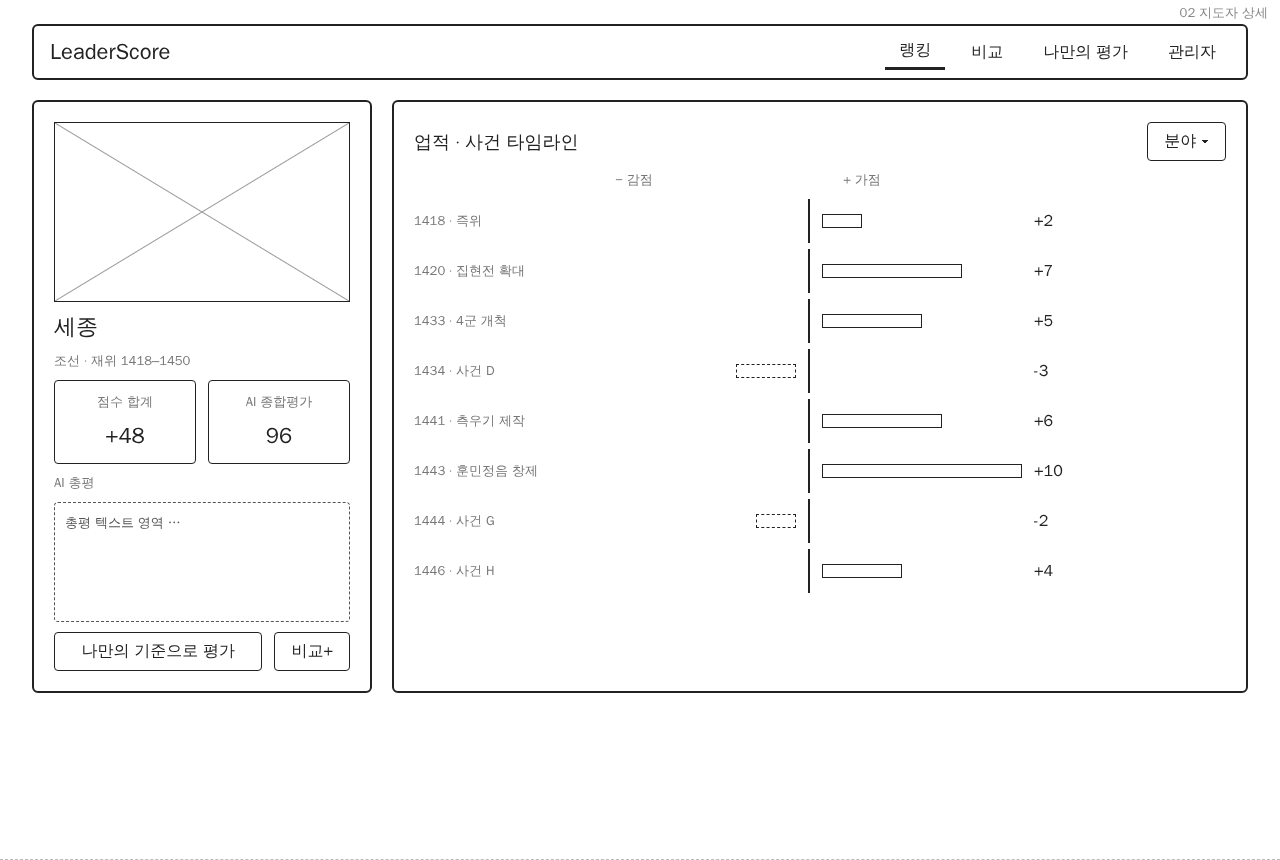
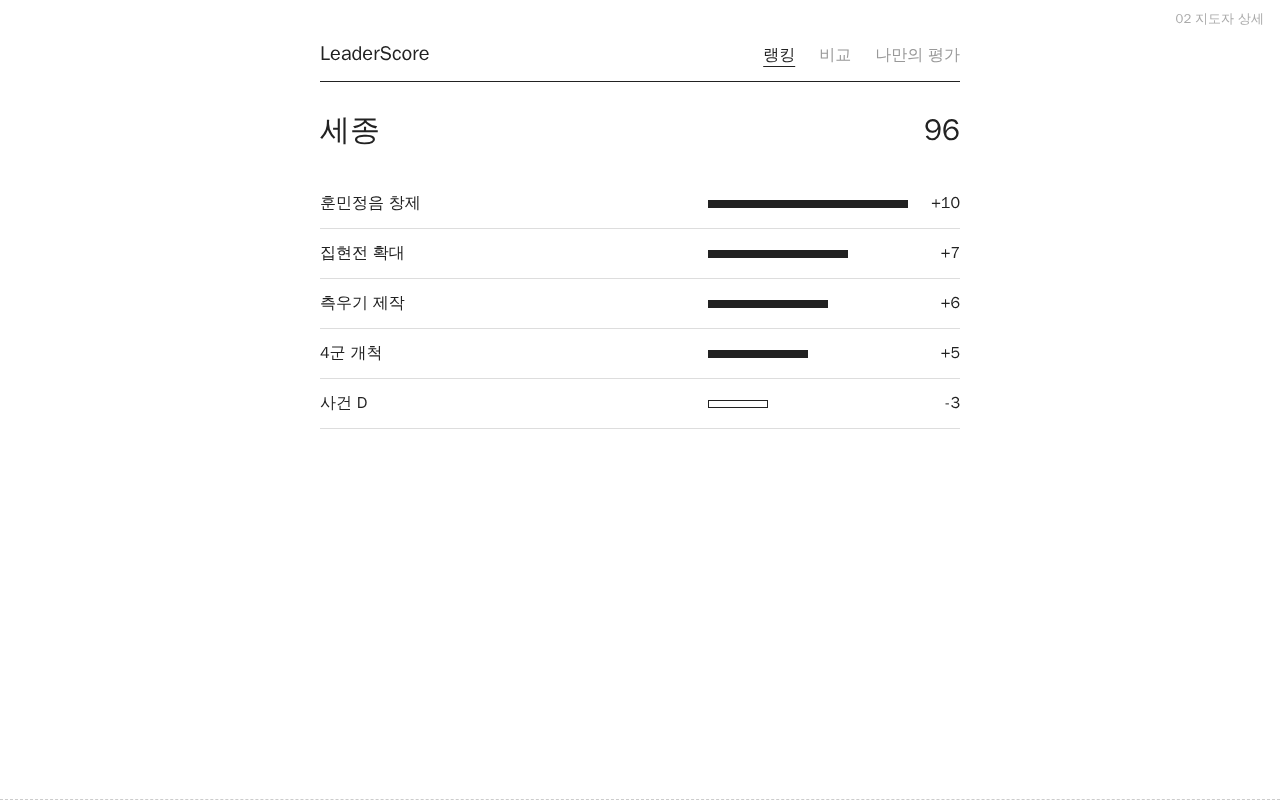
Simplify wireframes to minimal layout
Claude-Session: https://claude.ai/code/session_018d411kTBLTazJuieQGaakd

diff --git a/mockups/wireframes.html b/mockups/wireframes.html
@@ -6,200 +6,81 @@
 <style>
   * { box-sizing: border-box; margin: 0; padding: 0; }
   body { background: #fff; font-family: "WenQuanYi Zen Hei", sans-serif; color: #222; }
-  .screen { width: 1280px; height: 860px; padding: 24px 32px; position: relative; border-bottom: 1px dashed #bbb; }
-  .b { border: 2px solid #222; border-radius: 6px; }
-  .t { border: 1.5px solid #222; border-radius: 4px; }
-  .d { border: 1.5px dashed #555; border-radius: 4px; }
-  .row { display: flex; gap: 12px; align-items: center; }
-  .col { display: flex; flex-direction: column; gap: 10px; }
+  .screen { width: 1280px; height: 800px; padding: 40px 0; position: relative; border-bottom: 1px dashed #ccc; }
+  .wrap { width: 640px; margin: 0 auto; display: flex; flex-direction: column; gap: 28px; }
+  .label { position: absolute; top: 10px; right: 16px; font-size: 13px; color: #aaa; }
+  .nav { display: flex; gap: 24px; align-items: baseline; padding-bottom: 14px; border-bottom: 1.5px solid #222; }
+  .nav b { font-weight: normal; font-size: 20px; flex: 1; }
+  .nav span { color: #999; }
+  .nav span.on { color: #222; text-decoration: underline; text-underline-offset: 6px; }
+  h1 { font-weight: normal; font-size: 30px; }
+  .muted { color: #999; font-size: 14px; }
+  .line { border: 1.5px solid #222; border-radius: 6px; padding: 12px 14px; color: #999; }
+  .btn { border: 1.5px solid #222; border-radius: 6px; padding: 12px; text-align: center; }
+  .row { display: flex; align-items: center; gap: 16px; }
+  .list > div { display: flex; align-items: center; gap: 16px; padding: 14px 0; border-bottom: 1px solid #ddd; }
   .sp { flex: 1; }
-  .label { position: absolute; top: 4px; right: 12px; font-size: 13px; color: #888; }
-  h1 { font-size: 22px; font-weight: normal; }
-  h2 { font-size: 18px; font-weight: normal; }
-  .muted { color: #777; font-size: 13px; }
-  .nav { height: 56px; padding: 0 16px; margin-bottom: 20px; }
-  .nav .tab { padding: 6px 14px; }
-  .nav .tab.on { border-bottom: 3px solid #222; }
-  .btn { padding: 8px 16px; display: inline-block; }
-  .chip { padding: 6px 12px; border-radius: 20px; border: 1.5px solid #222; display: inline-flex; gap: 6px; align-items: center; }
-  .chip.on { border-width: 3px; }
-  .img { border: 1.5px solid #222; position: relative; }
-  .img::before, .img::after { content: ""; position: absolute; inset: 0;
-    background: linear-gradient(to top right, transparent calc(50% - 1px), #999 50%, transparent calc(50% + 1px)); }
-  .img::after { background: linear-gradient(to top left, transparent calc(50% - 1px), #999 50%, transparent calc(50% + 1px)); }
-  .bar { height: 14px; border: 1.5px solid #222; }
-  .axis { width: 0; border-left: 2px solid #222; align-self: stretch; }
-  table { border-collapse: collapse; width: 100%; }
-  td, th { border-bottom: 1.5px solid #222; padding: 10px 8px; text-align: left; font-weight: normal; font-size: 15px; }
-  th { border-bottom-width: 2px; color: #555; }
-  .ta { padding: 10px; font-size: 13px; color: #555; line-height: 1.6; }
+  .chip { border: 1.5px solid #222; border-radius: 20px; padding: 6px 14px; }
+  .chip.off { border-color: #ccc; color: #aaa; }
 </style>
 </head>
 <body>
 
-<!-- 공통 네비 -->
 <template id="nav">
-  <div class="b row nav">
-    <h1>LeaderScore</h1><div class="sp"></div>
-    <span class="tab" data-k="rank">랭킹</span>
-    <span class="tab" data-k="compare">비교</span>
-    <span class="tab" data-k="mine">나만의 평가</span>
-    <span class="tab" data-k="admin">관리자</span>
-  </div>
+  <div class="nav"><b>LeaderScore</b><span data-k="rank">랭킹</span><span data-k="compare">비교</span><span data-k="mine">나만의 평가</span></div>
 </template>
 
 <!-- 1. 랭킹 -->
-<section class="screen" id="s1" data-nav="rank">
-  <span class="label">01 랭킹 (메인)</span>
-  <div class="row" style="margin-bottom:16px">
-    <div class="t btn" style="width:320px">🔍 지도자 검색</div>
-    <div class="t btn">시대 ▾</div>
-    <div class="t btn">국가 ▾</div>
-    <div class="sp"></div>
-    <span class="muted">정렬</span>
-    <div class="t btn" style="border-width:3px">AI 종합평가</div>
-    <div class="t btn">점수 합계</div>
+<section class="screen" data-nav="rank"><span class="label">01 랭킹</span>
+  <div class="wrap">
+    <div class="list">
+      <div><span class="muted">1</span><span class="sp">세종</span><span>96</span></div>
+      <div><span class="muted">2</span><span class="sp">지도자 B</span><span>88</span></div>
+      <div><span class="muted">3</span><span class="sp">지도자 C</span><span>79</span></div>
+      <div><span class="muted">4</span><span class="sp">지도자 D</span><span>61</span></div>
+      <div><span class="muted">5</span><span class="sp">지도자 E</span><span>34</span></div>
+    </div>
   </div>
-  <div class="b" style="padding:8px 16px">
-    <table>
-      <tr><th style="width:60px">순위</th><th style="width:70px"></th><th>지도자</th><th>국가 · 시대</th><th style="width:300px">점수 합계 (+/−)</th><th style="width:120px">AI 평가</th><th style="width:80px"></th></tr>
-      <tr><td>1</td><td><div class="img" style="width:44px;height:44px"></div></td><td>세종</td><td>조선 · 1418–1450</td><td><div class="row"><div class="bar" style="width:200px"></div>+48</div></td><td>96 / 100</td><td><span class="t btn" style="padding:4px 8px">비교+</span></td></tr>
-      <tr><td>2</td><td><div class="img" style="width:44px;height:44px"></div></td><td>지도자 B</td><td>국가 · 시대</td><td><div class="row"><div class="bar" style="width:160px"></div>+35</div></td><td>88 / 100</td><td><span class="t btn" style="padding:4px 8px">비교+</span></td></tr>
-      <tr><td>3</td><td><div class="img" style="width:44px;height:44px"></div></td><td>지도자 C</td><td>국가 · 시대</td><td><div class="row"><div class="bar" style="width:120px"></div>+22</div></td><td>79 / 100</td><td><span class="t btn" style="padding:4px 8px">비교+</span></td></tr>
-      <tr><td>4</td><td><div class="img" style="width:44px;height:44px"></div></td><td>지도자 D</td><td>국가 · 시대</td><td><div class="row"><div class="bar" style="width:60px"></div>+8</div></td><td>61 / 100</td><td><span class="t btn" style="padding:4px 8px">비교+</span></td></tr>
-      <tr><td>5</td><td><div class="img" style="width:44px;height:44px"></div></td><td>지도자 E</td><td>국가 · 시대</td><td><div class="row"><div class="bar" style="width:40px;border-style:dashed"></div>−12</div></td><td>34 / 100</td><td><span class="t btn" style="padding:4px 8px">비교+</span></td></tr>
-    </table>
-  </div>
-  <div class="row" style="justify-content:center;margin-top:16px"><span class="t btn">‹</span><span>1 2 3 …</span><span class="t btn">›</span></div>
 </section>
 
-<!-- 2. 지도자 상세 -->
-<section class="screen" id="s2" data-nav="rank">
-  <span class="label">02 지도자 상세</span>
-  <div class="row" style="align-items:stretch;gap:20px">
-    <div class="b col" style="width:340px;padding:20px">
-      <div class="img" style="width:100%;height:180px"></div>
-      <h1>세종</h1>
-      <span class="muted">조선 · 재위 1418–1450</span>
-      <div class="row"><div class="t col" style="flex:1;padding:12px;align-items:center"><span class="muted">점수 합계</span><h1>+48</h1></div>
-        <div class="t col" style="flex:1;padding:12px;align-items:center"><span class="muted">AI 종합평가</span><h1>96</h1></div></div>
-      <span class="muted">AI 총평</span>
-      <div class="d ta" style="height:120px">총평 텍스트 영역 …</div>
-      <div class="row"><span class="t btn" style="flex:1;text-align:center">나만의 기준으로 평가</span><span class="t btn">비교+</span></div>
-    </div>
-    <div class="b col" style="flex:1;padding:20px">
-      <div class="row"><h2>업적 · 사건 타임라인</h2><div class="sp"></div><span class="t btn">분야 ▾</span></div>
-      <div class="row muted" style="padding-left:120px"><span style="width:200px;text-align:center">− 감점</span><span style="width:4px"></span><span style="width:200px;text-align:center">+ 가점</span></div>
-      <div id="events" class="col" style="gap:6px"></div>
-    </div>
+<!-- 2. 상세 -->
+<section class="screen" data-nav="rank"><span class="label">02 지도자 상세</span>
+  <div class="wrap">
+    <div class="row"><h1 class="sp">세종</h1><h1>96</h1></div>
+    <div class="list" id="events"></div>
   </div>
 </section>
 
 <!-- 3. 나만의 평가 -->
-<section class="screen" id="s3" data-nav="mine">
-  <span class="label">03 나만의 평가</span>
-  <div class="row" style="align-items:stretch;gap:20px;height:740px">
-    <div class="b col" style="width:600px;padding:20px">
-      <div class="row"><h2>평가 대상</h2><div class="t btn" style="flex:1">세종 ▾</div></div>
-      <h2>① 평가기준</h2>
-      <span class="muted">우선평가가치 — 칩 클릭 시 기준에 추가, 가중치 선택</span>
-      <div class="row" style="flex-wrap:wrap;gap:8px">
-        <span class="chip on">경제 <span class="t" style="padding:0 6px">×2 ▾</span></span>
-        <span class="chip">군사·안보</span>
-        <span class="chip on">인권·민생 <span class="t" style="padding:0 6px">×3 ▾</span></span>
-        <span class="chip">문화·학문</span>
-        <span class="chip">외교</span>
-        <span class="chip">제도개혁</span>
-        <span class="chip">장기적 영향</span>
-      </div>
-      <span class="muted">자유 기준 추가</span>
-      <div class="d ta" style="height:70px">예) 전쟁으로 인한 민간인 피해는 크게 감점</div>
-      <div class="row"><h2>② 생성된 프롬프트</h2><div class="sp"></div><span class="t btn">📋 복사</span></div>
-      <div class="t ta" style="flex:1">너는 역사 평가자다. 아래 지도자의 사건을 -10~+10으로 채점하라.<br>기준: 경제(×2), 인권·민생(×3), 자유기준 …<br>사건 목록: e1 …, e2 …<br>JSON 형식으로만 답하라: { "events": [...], "overall": 0~100, "summary": "" }</div>
+<section class="screen" data-nav="mine"><span class="label">03 나만의 평가</span>
+  <div class="wrap">
+    <div class="row" style="flex-wrap:wrap;gap:10px">
+      <span class="chip">경제 ×2</span><span class="chip">인권 ×3</span>
+      <span class="chip off">군사</span><span class="chip off">문화</span><span class="chip off">외교</span>
     </div>
-    <div class="b col" style="flex:1;padding:20px">
-      <h2>③ AI 응답 붙여넣기</h2>
-      <span class="muted">외부 AI 채팅(ChatGPT, Claude 등)의 응답을 붙여넣으세요</span>
-      <div class="d ta" style="height:120px">{ "events": [ … ], "overall": 91, … }</div>
-      <div class="row"><span class="t btn">결과 보기</span><span class="muted">※ 저장되지 않음</span></div>
-      <h2>④ 결과 — 기본 vs 나의 기준</h2>
-      <div class="row"><div class="t col" style="flex:1;padding:12px;align-items:center"><span class="muted">AI 평가 (기본 → 나)</span><h1>96 → 91</h1></div>
-        <div class="t col" style="flex:1;padding:12px;align-items:center"><span class="muted">점수 합계 (기본 → 나)</span><h1>+48 → +41</h1></div></div>
-      <table>
-        <tr><th>사건</th><th style="width:70px">기본</th><th style="width:70px">나</th><th style="width:60px">차이</th></tr>
-        <tr><td>훈민정음 창제</td><td>+10</td><td>+10</td><td>0</td></tr>
-        <tr><td>사건 B</td><td>+6</td><td>+8</td><td>▲2</td></tr>
-        <tr><td>사건 C</td><td>−3</td><td>−7</td><td>▼4</td></tr>
-        <tr><td>사건 D</td><td>+4</td><td>+3</td><td>▼1</td></tr>
-      </table>
-    </div>
+    <div class="line">기준 직접 입력</div>
+    <div class="btn">프롬프트 복사</div>
+    <div class="line" style="height:120px">AI 응답 붙여넣기</div>
+    <div class="row"><span class="sp muted">결과</span><h1>96 → 91</h1></div>
   </div>
 </section>
 
 <!-- 4. 비교 -->
-<section class="screen" id="s4" data-nav="compare">
-  <span class="label">04 비교</span>
-  <div class="row" style="align-items:stretch;gap:20px">
-    <div class="b col" style="flex:1;padding:20px;align-items:center">
-      <div class="t btn" style="width:100%">지도자 A: 세종 ▾</div>
-      <div class="img" style="width:120px;height:120px"></div>
-      <div class="row"><h1>+48</h1><span class="muted">|</span><h1>96</h1></div>
-    </div>
-    <div class="col" style="justify-content:center"><h1>VS</h1></div>
-    <div class="b col" style="flex:1;padding:20px;align-items:center">
-      <div class="t btn" style="width:100%">지도자 B ▾</div>
-      <div class="img" style="width:120px;height:120px"></div>
-      <div class="row"><h1>+35</h1><span class="muted">|</span><h1>88</h1></div>
-    </div>
-  </div>
-  <div class="row" style="align-items:stretch;gap:20px;margin-top:20px">
-    <div class="b col" style="flex:1;padding:20px">
-      <h2>분야별 점수</h2>
-      <div id="cats" class="col"></div>
-    </div>
-    <div class="b col" style="flex:1;padding:20px">
-      <h2>사건 목록</h2>
-      <div class="row" style="align-items:flex-start;gap:16px">
-        <div class="col" style="flex:1"><span class="muted">A</span><div class="t ta">+10 훈민정음 창제</div><div class="t ta">+6 사건</div><div class="t ta">−3 사건</div><div class="t ta">+4 사건</div></div>
-        <div class="col" style="flex:1"><span class="muted">B</span><div class="t ta">+8 사건</div><div class="t ta">+7 사건</div><div class="t ta">−5 사건</div><div class="t ta">+2 사건</div></div>
-      </div>
-    </div>
+<section class="screen" data-nav="compare"><span class="label">04 비교</span>
+  <div class="wrap">
+    <div class="row"><div class="line sp">세종</div><span class="muted">vs</span><div class="line sp">지도자 B</div></div>
+    <div class="row" style="justify-content:space-around"><h1>96</h1><h1>88</h1></div>
+    <div class="list" id="cmp"></div>
   </div>
 </section>
 
 <!-- 5. 관리자 -->
-<section class="screen" id="s5" data-nav="admin">
-  <span class="label">05 관리자</span>
-  <div class="row" style="align-items:stretch;gap:20px;height:740px">
-    <div class="col" style="width:340px">
-      <div class="b col" style="padding:16px">
-        <h2>관리자 로그인</h2>
-        <div class="t btn">비밀번호 ••••••</div>
-        <span class="t btn" style="text-align:center">로그인</span>
-      </div>
-      <div class="b col" style="padding:16px;flex:1">
-        <div class="row"><h2>지도자 목록</h2><div class="sp"></div><span class="t btn" style="padding:4px 8px">↻ 시트</span></div>
-        <div class="t ta" style="border-width:3px">세종 · 채점됨 10/02</div>
-        <div class="t ta">지도자 B · 채점됨</div>
-        <div class="t ta">지도자 C · <b>미채점</b></div>
-        <div class="t ta">지도자 D · <b>미채점</b></div>
-        <div class="t ta">지도자 E · 사건 추가됨</div>
-      </div>
-    </div>
-    <div class="b col" style="flex:1;padding:20px">
-      <div class="row"><h2>채점: 세종</h2><span class="muted">사건 12개</span><div class="sp"></div><span class="t btn">📋 채점 프롬프트 복사</span></div>
-      <div class="t ta" style="height:110px">기본 채점 프롬프트 미리보기 …</div>
-      <h2>AI 응답 붙여넣기</h2>
-      <div class="d ta" style="height:110px">{ "events": [ … ], "overall": 96, "summary": "…" }</div>
-      <div class="row"><span class="t btn">검증 · 미리보기</span><span class="muted">JSON 형식 / 점수 범위 / 사건 ID 확인</span></div>
-      <table>
-        <tr><th>사건</th><th style="width:80px">이전</th><th style="width:80px">새 점수</th><th>근거</th></tr>
-        <tr><td>훈민정음 창제</td><td>+9</td><td>+10</td><td class="muted">…</td></tr>
-        <tr><td>사건 B</td><td>+6</td><td>+6</td><td class="muted">…</td></tr>
-        <tr><td>사건 C</td><td>−2</td><td>−3</td><td class="muted">…</td></tr>
-      </table>
-      <div class="row"><div class="sp"></div><span class="t btn" style="border-width:3px">시트에 저장</span></div>
-    </div>
+<section class="screen" data-nav=""><span class="label">05 관리자</span>
+  <div class="wrap">
+    <div class="line">지도자 선택</div>
+    <div class="btn">채점 프롬프트 복사</div>
+    <div class="line" style="height:120px">AI 응답 붙여넣기</div>
+    <div class="btn">시트에 저장</div>
   </div>
 </section>
 
@@ -207,23 +88,14 @@
   const nav = document.getElementById('nav');
   document.querySelectorAll('.screen').forEach(s => {
     const n = nav.content.cloneNode(true);
-    n.querySelector(`[data-k="${s.dataset.nav}"]`).classList.add('on');
-    s.insertBefore(n, s.children[1]);
+    n.querySelector(`[data-k="${s.dataset.nav}"]`)?.classList.add('on');
+    s.querySelector('.wrap').prepend(n);
   });
-  const ev = [[1418,'즉위',2],[1420,'집현전 확대',7],[1433,'4군 개척',5],[1434,'사건 D',-3],[1441,'측우기 제작',6],[1443,'훈민정음 창제',10],[1444,'사건 G',-2],[1446,'사건 H',4]];
-  document.getElementById('events').innerHTML = ev.map(([y,t,s]) => `
-    <div class="row" style="height:44px">
-      <span style="width:170px;white-space:nowrap" class="muted">${y} · ${t}</span>
-      <div style="width:200px;display:flex;justify-content:flex-end">${s<0?`<div class="bar" style="width:${-s*20}px;border-style:dashed"></div>`:''}</div>
-      <div class="axis"></div>
-      <div style="width:200px">${s>0?`<div class="bar" style="width:${s*20}px"></div>`:''}</div>
-      <span style="width:40px">${s>0?'+':''}${s}</span>
-    </div>`).join('');
-  const cats = [['경제',8,6],['군사·안보',5,9],['인권·민생',9,4],['문화·학문',10,5],['외교',6,7]];
-  document.getElementById('cats').innerHTML = cats.map(([c,a,b]) => `
-    <div class="row"><div style="width:200px;display:flex;justify-content:flex-end;gap:6px">${a}<div class="bar" style="width:${a*15}px"></div></div>
-    <span style="width:90px;text-align:center">${c}</span>
-    <div style="width:200px;display:flex;gap:6px"><div class="bar" style="width:${b*15}px;border-style:dashed"></div>${b}</div></div>`).join('');
+  const bar = s => `<div style="width:200px;display:flex;justify-content:flex-start"><div style="height:8px;width:${Math.abs(s)*20}px;background:${s<0?'#fff':'#222'};border:1.5px solid #222"></div></div>`;
+  document.getElementById('events').innerHTML = [['훈민정음 창제',10],['집현전 확대',7],['측우기 제작',6],['4군 개척',5],['사건 D',-3]]
+    .map(([t,s]) => `<div><span class="sp">${t}</span>${bar(s)}<span style="width:36px;text-align:right">${s>0?'+':''}${s}</span></div>`).join('');
+  document.getElementById('cmp').innerHTML = [['경제',8,6],['군사',5,9],['인권',9,4],['문화',10,5]]
+    .map(([c,a,b]) => `<div><span style="width:40px">${a}</span><span class="sp muted" style="text-align:center">${c}</span><span style="width:40px;text-align:right">${b}</span></div>`).join('');
 </script>
 </body>
 </html>
